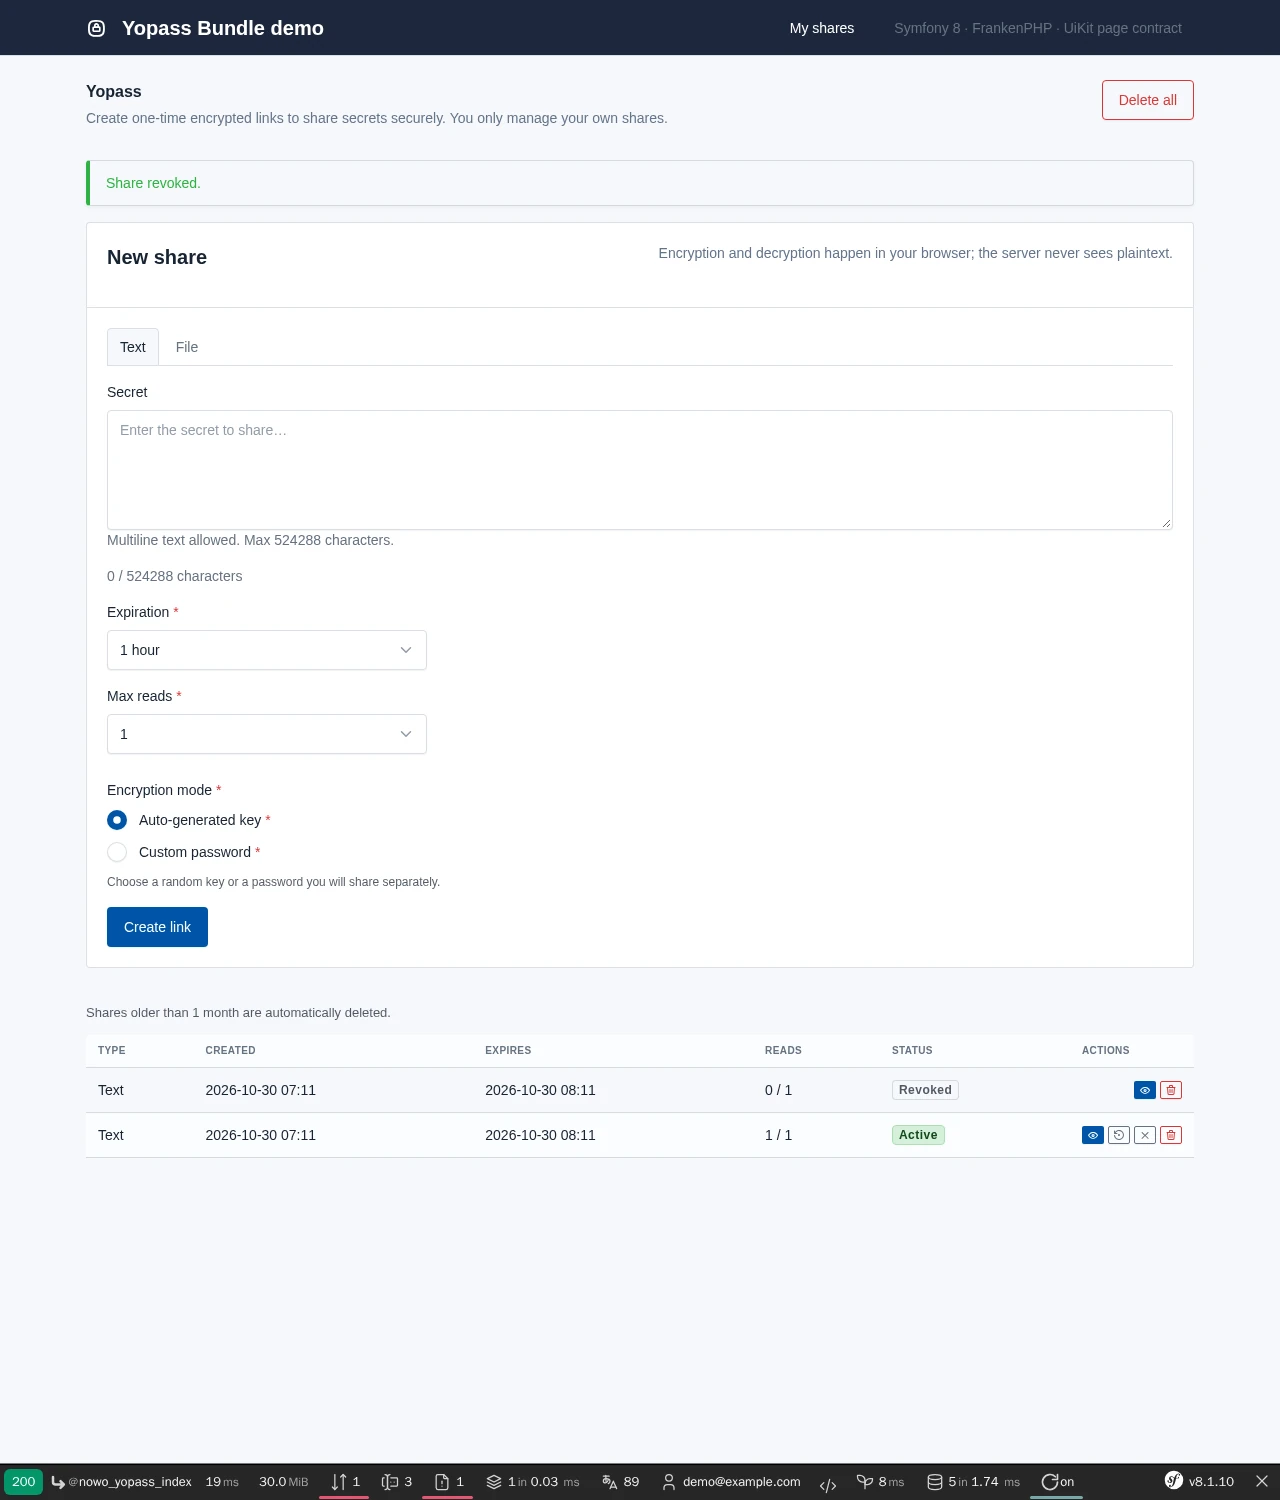
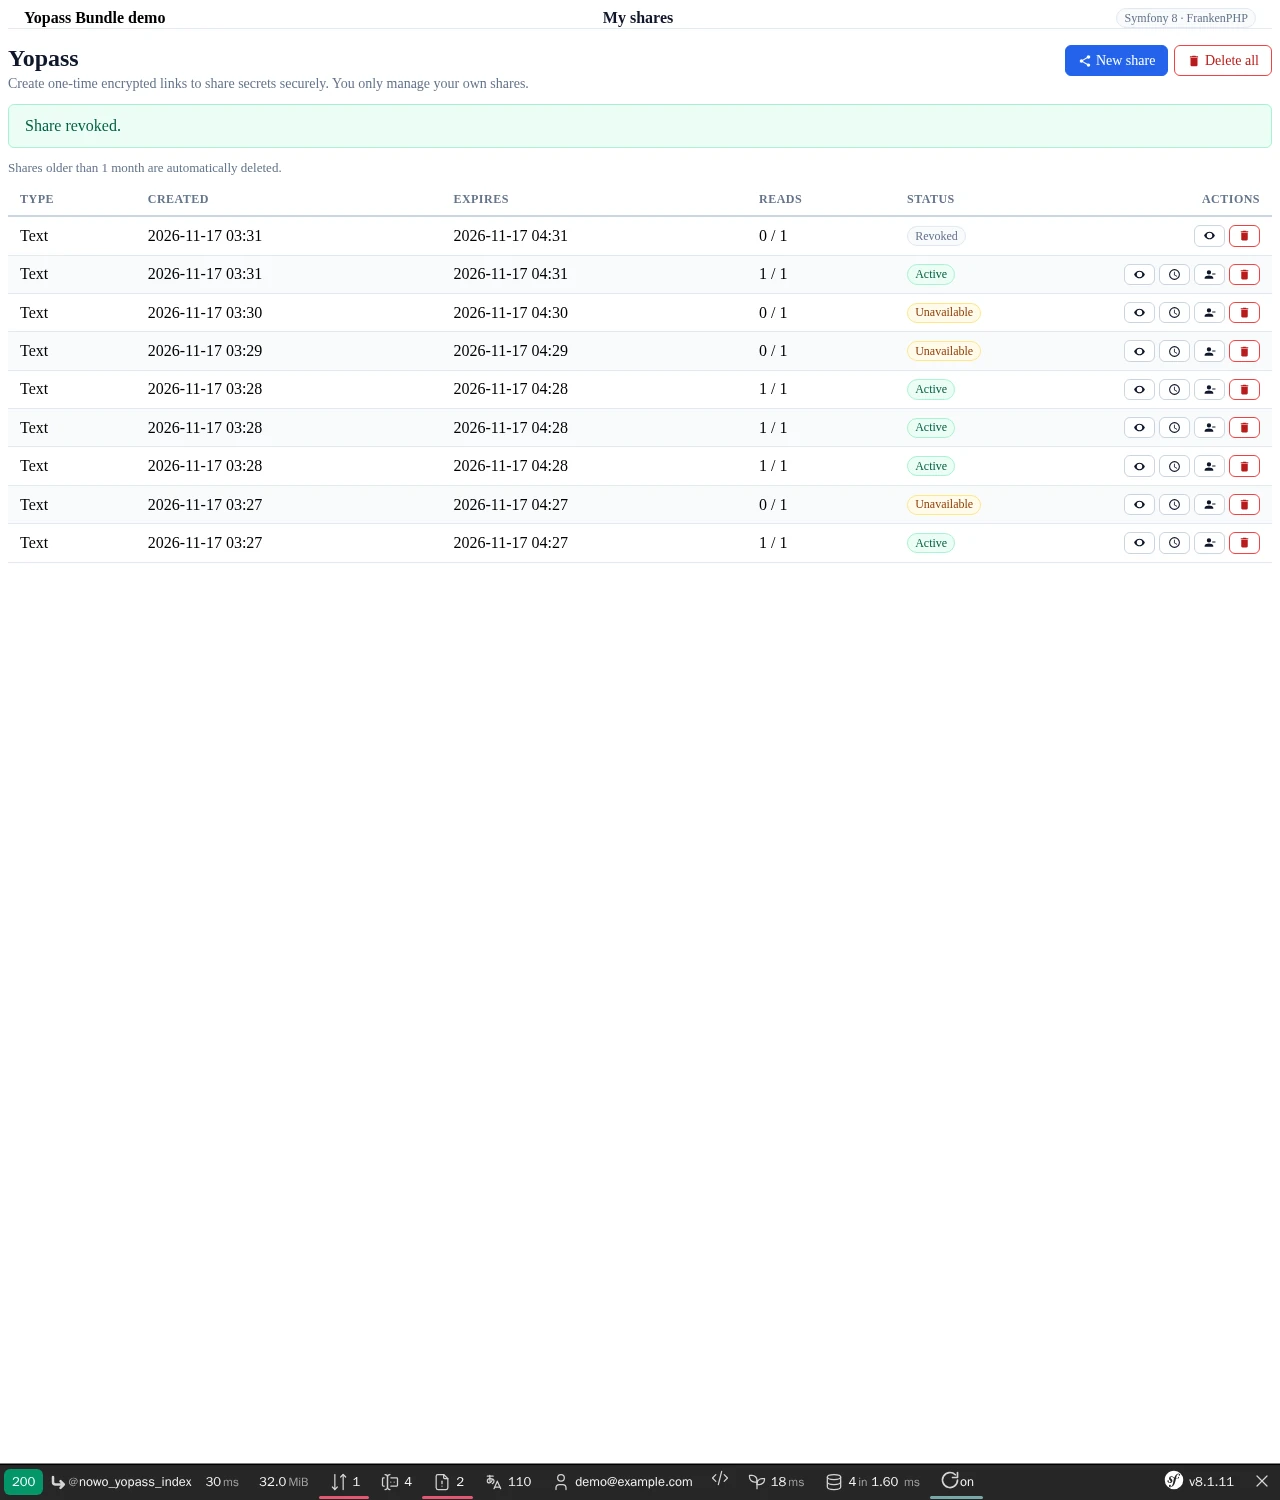
chore(demo): build the demo on UiKit layouts (REQ-DEMO-014)

diff --git a/docs/CHANGELOG.md b/docs/CHANGELOG.md
@@ -68,6 +68,7 @@ and this project adheres to [Semantic Versioning](https://semver.org/spec/v2.0.0
 
 ### Changed
 
+- Demo: the shell is UiKit's admin and guest layouts with a UiKit masthead and flashes (no Tabler or icon CDN, no `demo.css`), `demo/symfony8/composer.json` requires `nowo-tech/ui-kit-bundle` ^2.53 and the form theme is UiKit's (REQ-DEMO-014); README screenshots refreshed.
 - docs: Spec Kit baseline refreshed (REQ-SPECKIT-001 / REQ-SPECKIT-003 sweep 2026-11-16): `specs/001-baseline/code-inventory.md` maps all 149 production units under `src/` (71 added, 3 stale rows removed) and `spec.md` gains the matching `FR-*` groups; no code change
 
 ## [1.20.5] - 2026-11-13
